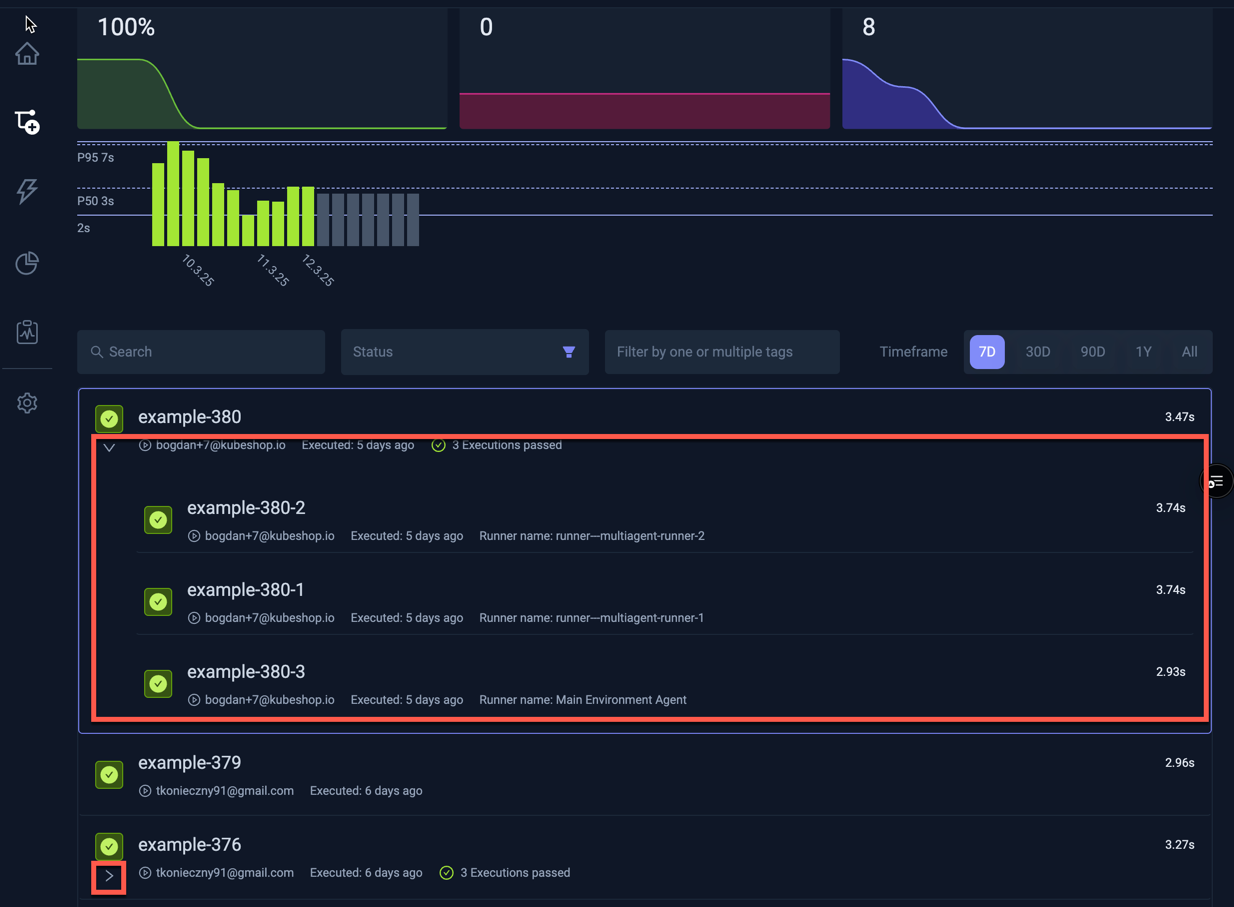
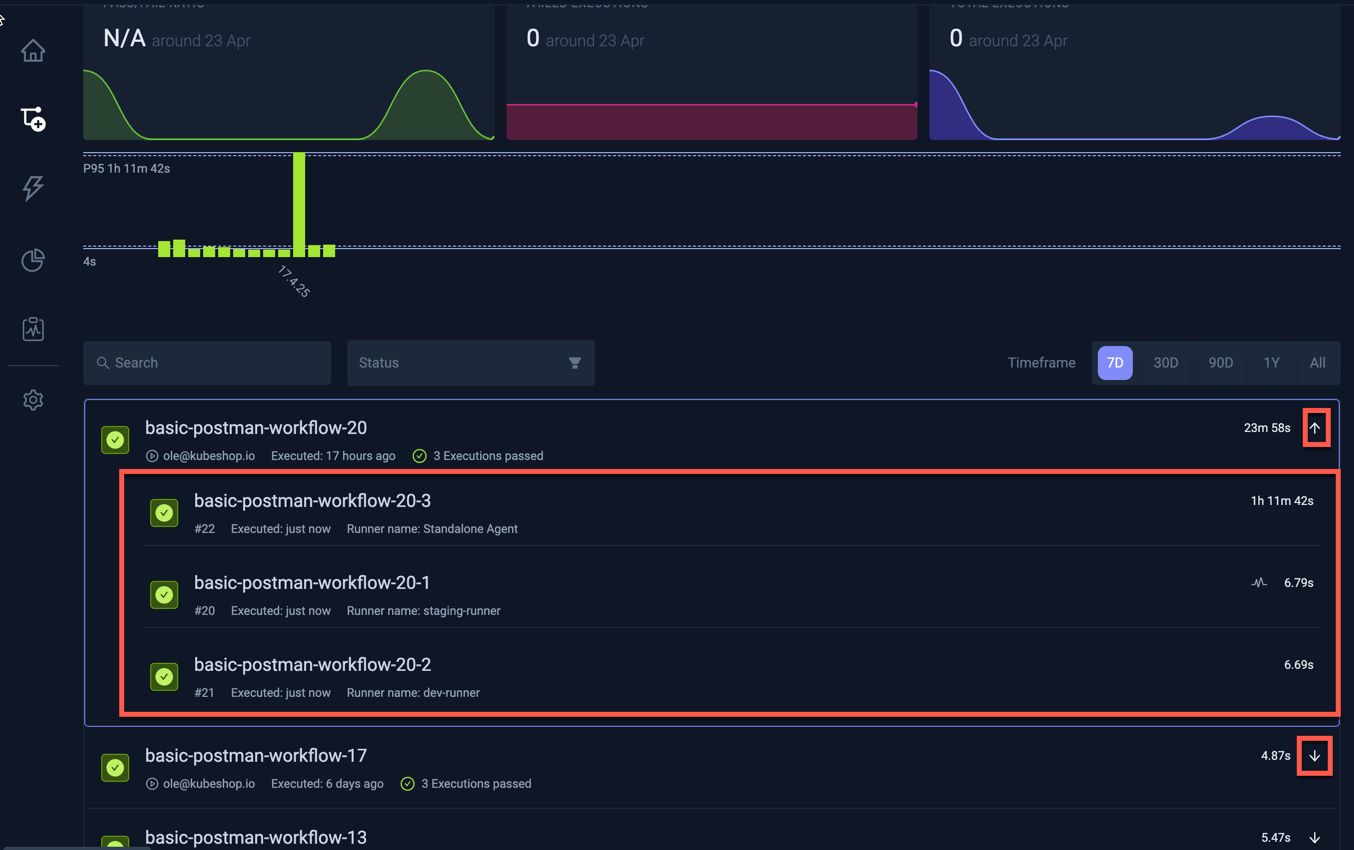
ongoing MA doc improvements..

diff --git a/docs/articles/testkube-dashboard-workflow-details.md b/docs/articles/testkube-dashboard-workflow-details.md
@@ -9,7 +9,7 @@ The "**Run Now**" button in the top right has two modes of operation:
 - Clicking on the "Run Now" label will immediately schedule an execution of the workflow on a global runner.
 - Clicking on the down-arrow will open a list of available Runners where one can select on which Runner(s) to run.
 
-In the below screenshot, the Workflow will run on the two selected Runners when the "Run on 2 selected runners" button
+In the below screenshot, the Workflow will run on the three selected Runners when the "Run on 3 selected runners" button
 is selected.
 
 ![Run Workflow Button](images/run-workflow-button.png)
@@ -46,7 +46,7 @@ the table will show an expandable section that includes all those executions:
 
 ![Multi-agent Executions List](images/mulit-agent-executions-list.png)
 
-Use the arrow at the top left of this section to expand/collapse the contained executions. 
+Use the arrow at the top right of this section to expand/collapse the contained executions. 
 
 ## CLI Commands Tab
 
